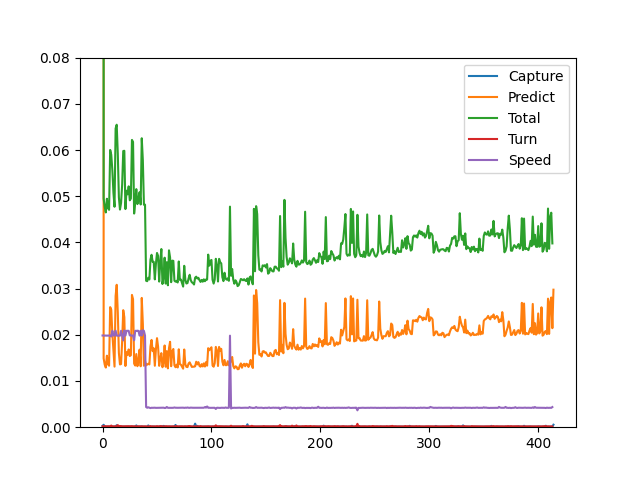
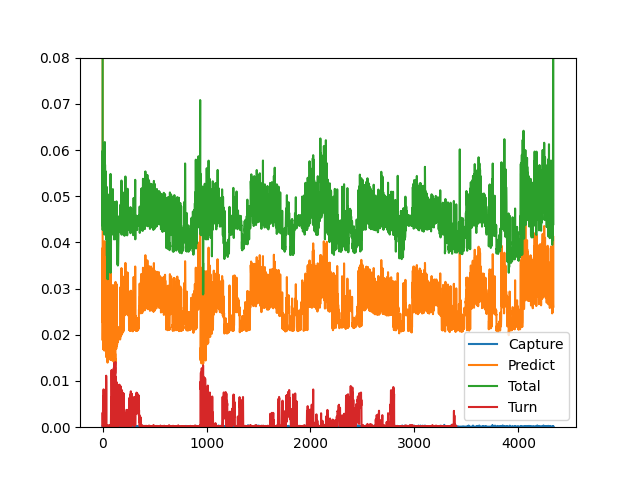
Matt updates

Changed region(s): [[0.1562, 0.125, 0.9062, 0.9375]]

diff --git a/main.py b/main.py
@@ -28,7 +28,7 @@ MATT_LAPTOP = True
 JANK_CONTROLLER = False
 
 # Set True to optimize for competition, removing all visuals
-COMP_SETTINGS = True
+COMP_SETTINGS = False
 
 # Set True to print outputs for Corner Detection and Algo
 PRINT = True
@@ -40,7 +40,7 @@ TIMING = True
 WARP_AND_COLOR_PICKING = False
 
 # Set True when testing with a live Huey and not a pre-filmed video
-IS_TRANSMITTING = False
+IS_TRANSMITTING = True
 
 # True to display current and future orientation angles for each iteration
 SHOW_FRAME = True
@@ -72,7 +72,7 @@ BACK_UP_TIME = 0.5
 start_back_up_time = 0
 
 # camera_number = 1
-# camera_number = 701
+camera_number = 701
 # camera_number = test_videos_folder + "/crude_rot_huey.mp4"
 # camera_number = test_videos_folder + "/huey_duet_demo.mp4"
 # camera_number = test_videos_folder + "/huey_demo2.mp4"
@@ -105,7 +105,6 @@ def main():
         t_turn = []
         t_predict = []
         t_whole = []
-        t_speed = []
 
     try:
         # 1. Start the capturing frame from the camera or pre-recorded video
@@ -208,8 +207,9 @@ def main():
         if IS_TRANSMITTING:
             # 5.1: Defining Transmission Object if we're using a live video
             ser = OurSerial()
-            speed_motor_group = Motor(ser=ser, channel=speed_motor_channel)
-            turn_motor_group = Motor(ser=ser, channel=turn_motor_channel)
+            # speed_motor_group = Motor(ser=ser, channel=speed_motor_channel)
+            # turn_motor_group = Motor(ser=ser, channel=turn_motor_channel)
+            motor_group = Motor(ser=ser, channel=speed_motor_channel, channel2=turn_motor_channel)
             if JANK_CONTROLLER:
                 weapon_motor_group = Motor(ser=ser, channel=weapon_motor_channel, speed=-1)
             else:
@@ -325,14 +325,10 @@ def main():
 
                             tt = time.perf_counter()
                             if turn * -1 > 0:
-                                turn_motor_group.move(turn * -1 * 0.5 + 0.1)
+                                motor_group.move(IS_FLIPPED * speed * 0.8, turn * -1 * 0.55 + 0.2)
                             else:
-                                turn_motor_group.move(turn * -1 * 0.5 - 0.1)
+                                motor_group.move(IS_FLIPPED * speed * 0.8, turn * -1 * 0.55 - 0.2)
                             t_turn.append(time.perf_counter() - tt)
-        
-                            ts = time.perf_counter()
-                            speed_motor_group.move(IS_FLIPPED * speed * 0.7)
-                            t_speed.append(time.perf_counter()-ts)
 
 
                             
@@ -366,10 +362,8 @@ def main():
             # Motors need to be cleaned up correctly
             try:
                 # We stop or clean up objects that actually exist in the current scope
-                if 'speed_motor_group' in locals():
-                    speed_motor_group.stop()
-                if 'turn_motor_group' in locals():
-                    turn_motor_group.stop()
+                if 'motor_group' in locals():
+                    motor_group.stop()
                 if 'ser' in locals():
                     ser.cleanup()
             except Exception as motor_exception:
@@ -386,7 +380,6 @@ def main():
             plt.plot(t_predict, label="Predict")
             plt.plot(t_whole, label="Total")
             plt.plot(t_turn, label="Turn")
-            plt.plot(t_speed, label="Speed")
             plt.ylim(0,0.08)
             plt.legend()
             plt.savefig("timing.png")

diff --git a/corner_detection/corner_detection.py b/corner_detection/corner_detection.py
@@ -51,7 +51,7 @@ class RobotCornerDetection:
         hsv_image = cv2.cvtColor(image, cv2.COLOR_BGR2HSV)
 
         # Define the HSV range for the robot's color
-        lower_limit = np.array([max(0, bot_color_hsv[0] - 10), 80, 80])
+        lower_limit = np.array([max(0, bot_color_hsv[0] - 10), 50, 50])
         upper_limit = np.array([min(179, bot_color_hsv[0] + 10), 255, 255])
 
         # Create a mask for the robot's color in the image
@@ -78,7 +78,7 @@ class RobotCornerDetection:
         # Define the HSV range around the selected color
         # We tried using 10 for the range; It was too large and picked up orange instead of red
         # For now, it is +-8
-        lower_limit = np.array([max(0, selected_color[0] - 10), 5, 5])
+        lower_limit = np.array([max(0, selected_color[0] - 10), 20, 20])
         upper_limit = np.array([min(179, selected_color[0] + 10), 255, 255])
 
         mask = cv2.inRange(hsv_image, lower_limit, upper_limit)
@@ -115,7 +115,7 @@ class RobotCornerDetection:
                 print(color, color_pixel_count)
 
                 if color_pixel_count > max_color_pixels:
-                    if color == "Top" and color_pixel_count > total_pixels*0.04:
+                    if color == "Top" and color_pixel_count > total_pixels*0.03:
                         max_color_pixels = color_pixel_count
                         our_bot_image = image
                     elif color == "Bottom" and color_pixel_count > total_pixels*0.05:
@@ -212,7 +212,7 @@ class RobotCornerDetection:
             # Filter out small contours based on area
             area = cv2.contourArea(contour)
             print("Area", area)
-            if area > 5:
+            if area > 10:
                 # TODO: this value is subject to change based on dimensions of our video & resize_factor
                 # Compute moments for each contour
                 M = cv2.moments(contour)

diff --git a/transmission/serial_conn.py b/transmission/serial_conn.py
@@ -88,26 +88,26 @@ class OurSerial():
 
         return port_dic[selection]
 
-def send_data(self, channel1, speed1, channel2=None, speed2=None):
-    """
-    Sets one or two channels to specified speeds.
+    def send_data(self, channel1, speed1, channel2=None, speed2=None):
+        """
+        Sets one or two channels to specified speeds.
 
-    Parameters
-    ----------
-    channel1 : int
-        First channel to set
-    speed1 : float
-        Value for first channel (-1.0 to 1.0)
-    channel2 : int, optional
-        Second channel to set
-    speed2 : float, optional
-        Value for second channel (-1.0 to 1.0)
-    """
-    data = f"{channel1} {speed1}"
-    if channel2 is not None and speed2 is not None:
-        data += f" {channel2} {speed2}"
-    data += "\n"
-    self.ser.write(data.encode())
+        Parameters
+        ----------
+        channel1 : int
+            First channel to set
+        speed1 : float
+            Value for first channel (-1.0 to 1.0)
+        channel2 : int, optional
+            Second channel to set
+        speed2 : float, optional
+            Value for second channel (-1.0 to 1.0)
+        """
+        data = f"{channel1} {speed1}"
+        if channel2 is not None and speed2 is not None:
+            data += f" {channel2} {speed2}"
+        data += "\n"
+        self.ser.write(data.encode())
 
     def cleanup(self):
         """Closes serial connection"""

diff --git a/Algorithm/ram.py b/Algorithm/ram.py
@@ -395,7 +395,7 @@ class Ram():
             # Don't use the integral term for now
             integral = 0
             # Calculate the PID output
-            pid_output = (error * 1) + (derivative * 0.1 * -1) + (integral * 0.0)
+            pid_output = (error * 1) + (derivative * 0.03 * -1) + (integral * 0.0)
             # Calculate the new speed and turn values
             speed = speed
             turn = pid_output

diff --git a/transmission/motors.py b/transmission/motors.py
@@ -48,7 +48,10 @@ class Motor():
         self.channel = channel
         self.ser = ser
         self.channel2 = channel2
+        if speed2 is None:
+            speed2 = 0
         self.speed2 = speed2
+
         if channel2 is not None:
             self.ser.send_data(channel, speed)
         else:
